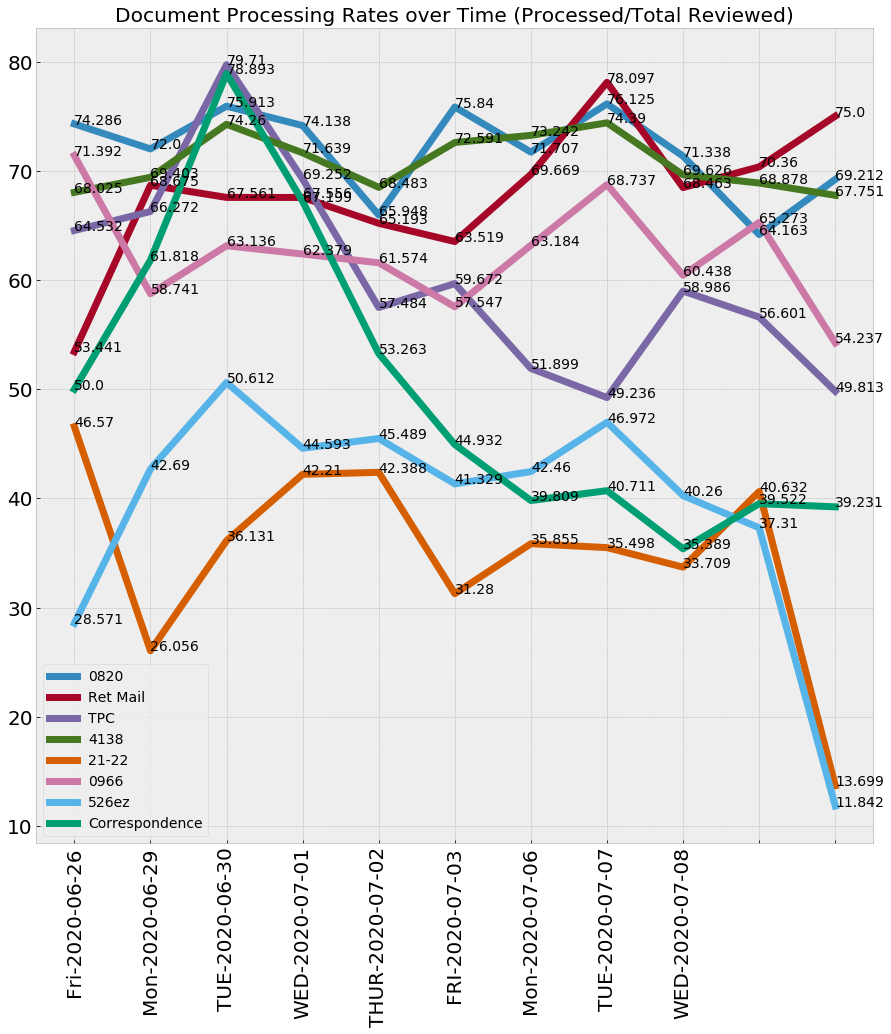
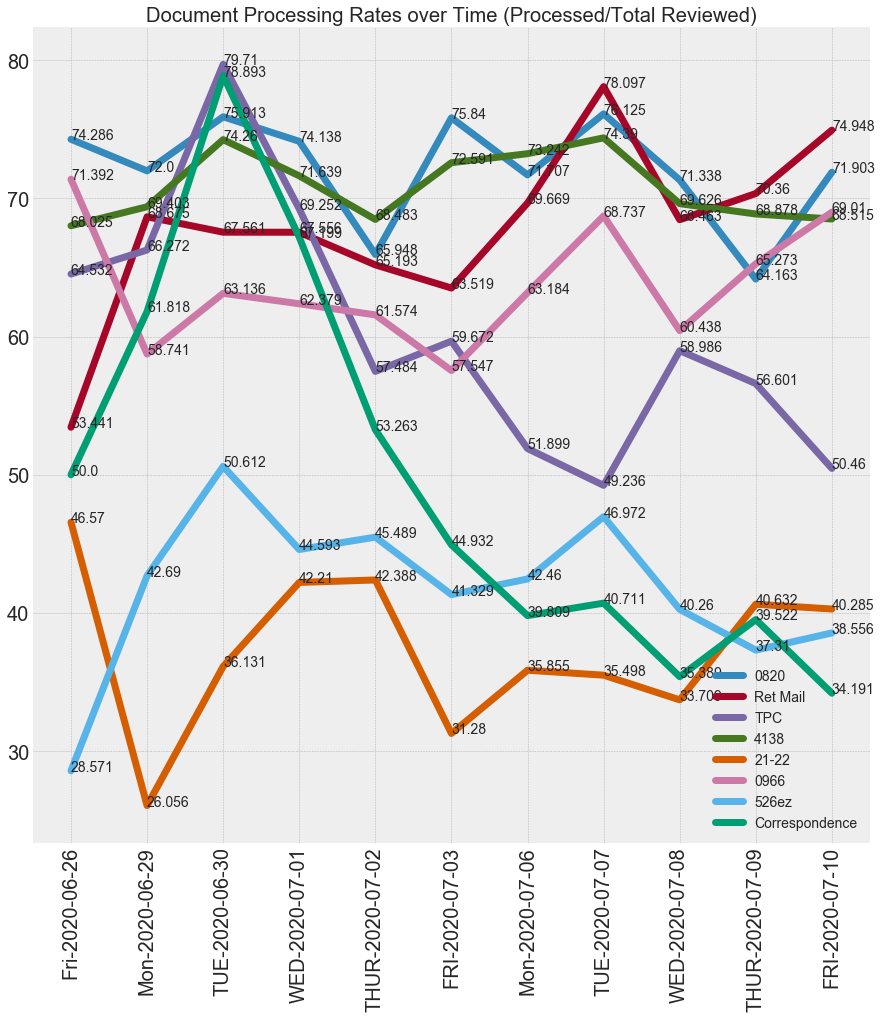
adding docs

diff --git a/index.html b/index.html
@@ -35,7 +35,8 @@
     <p>These are the daily # of Chargeable OFFRAMPS</p>
     <img src='System offramps over time.png' height='1100px' width='1200px' class='center'>
     <br>
-    <p>These are the daily # of Non Chargeable OFFRAMPS</p>
+    <img src='DOC Percentage Rate all docs7.10.20.png' height='1100px' width='1200px' class='center'>
+    <p>These are the daily # of all processed documents/Processed+Offramped</p>
 
     </figure>
   </div>
